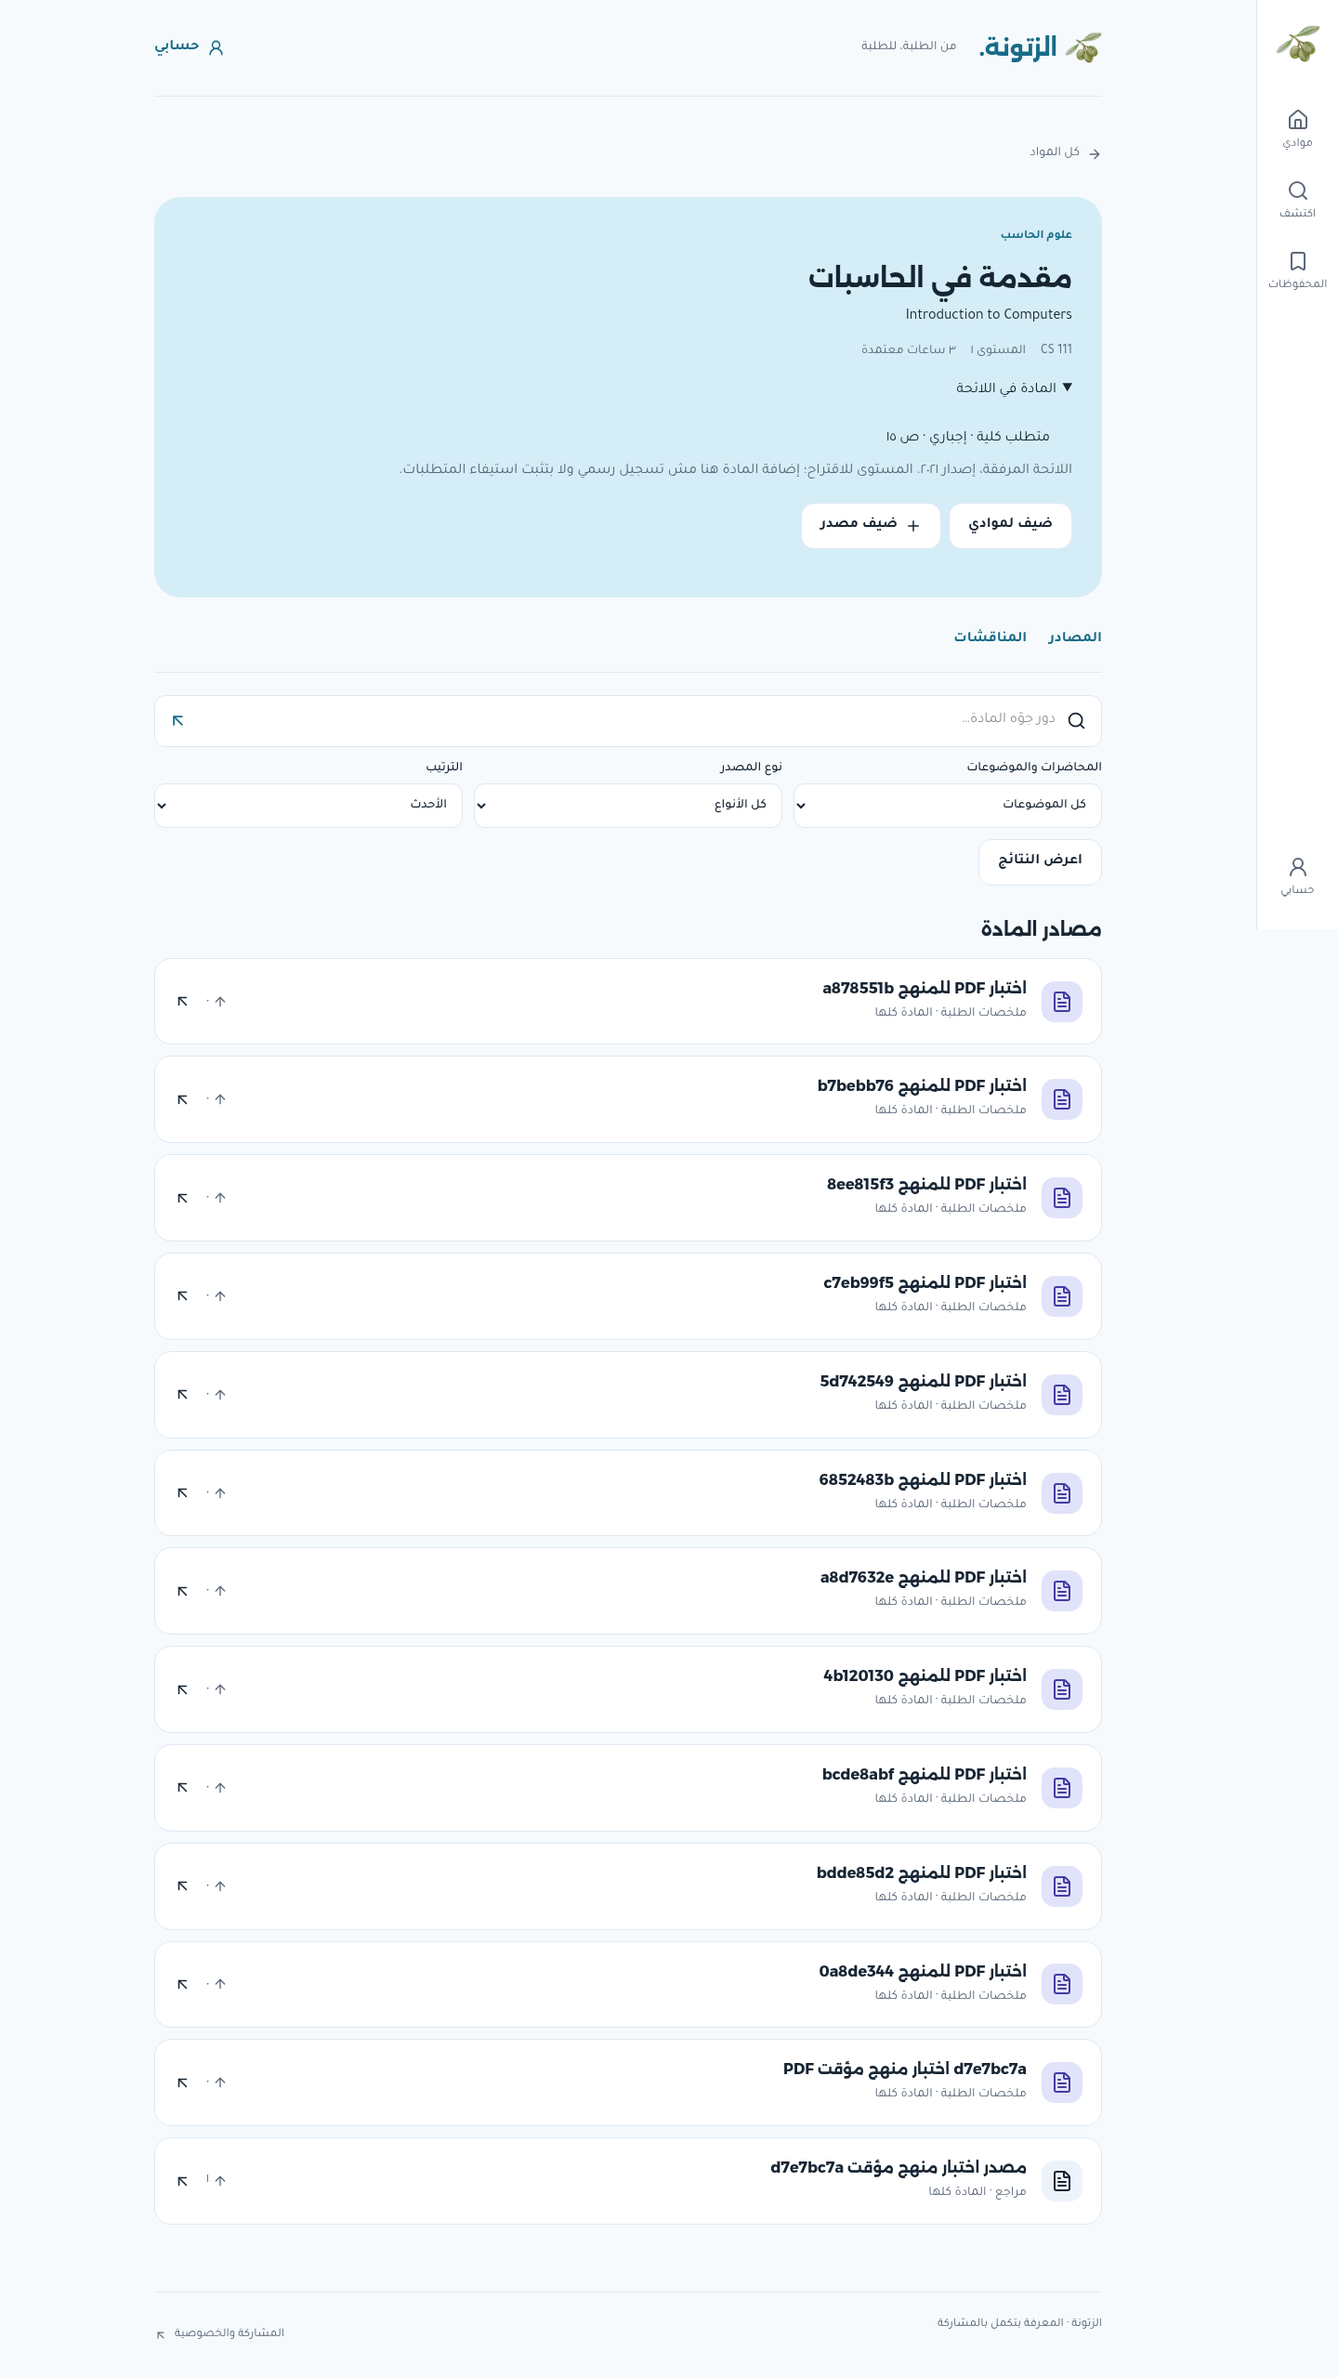
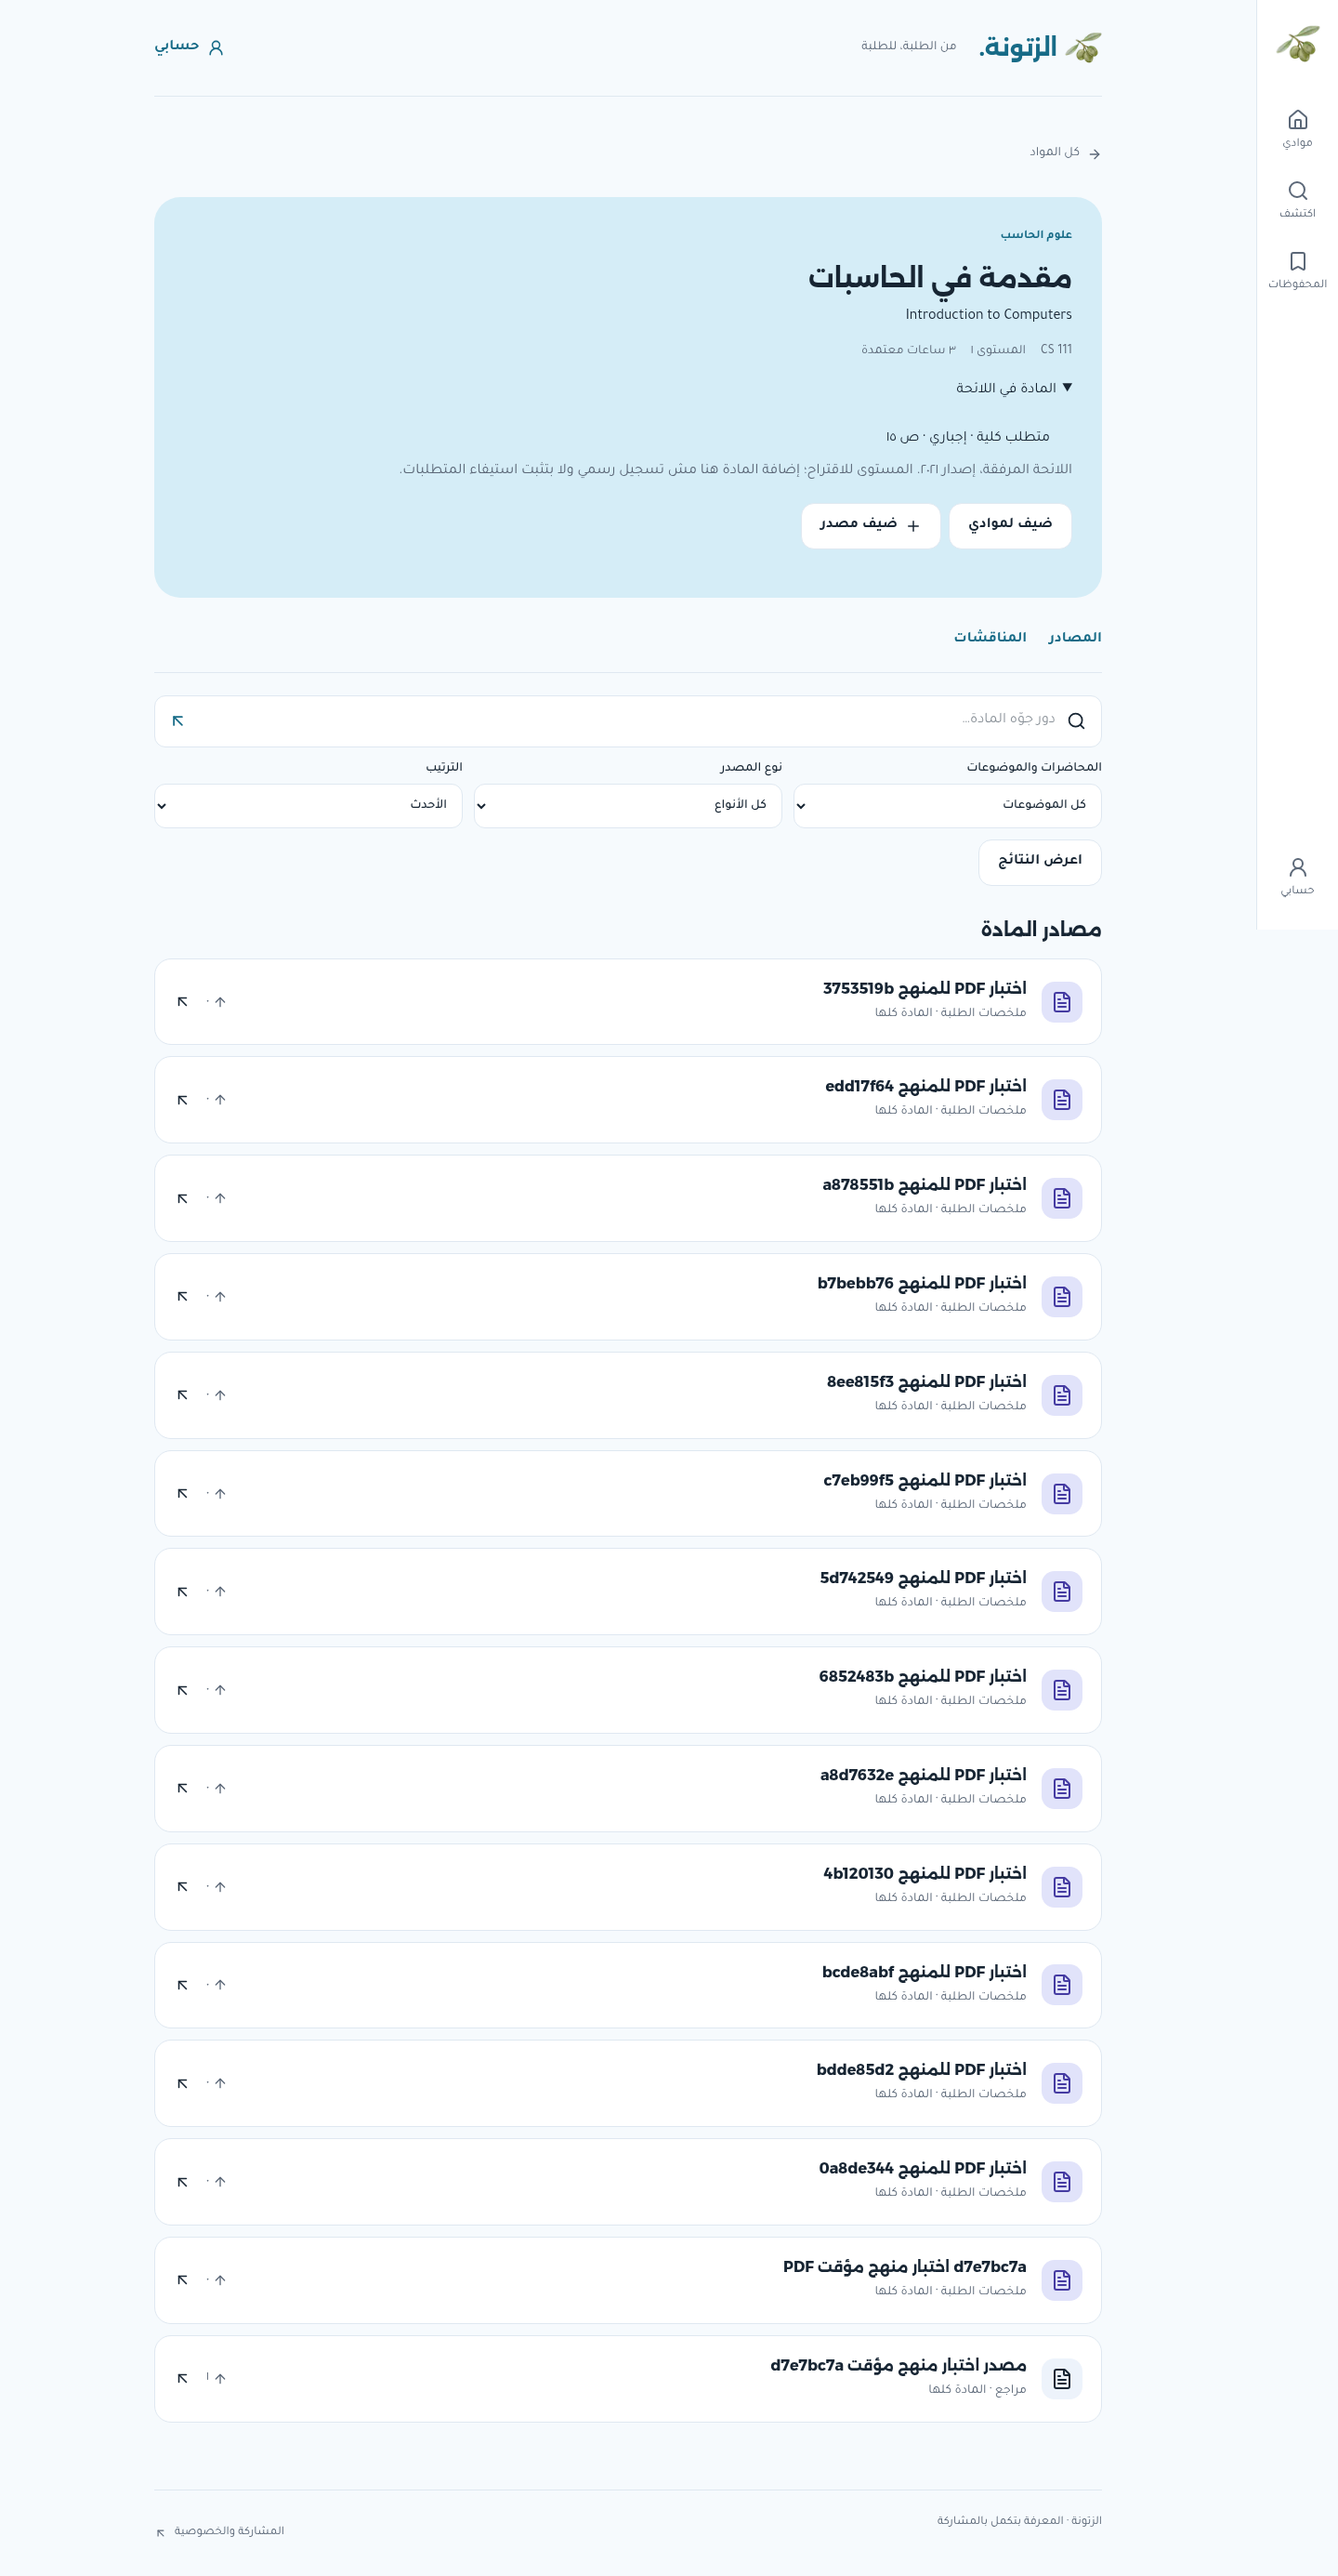
Record live curriculum verification and temporary QA cleanup

diff --git a/docs/IMPLEMENTATION_STATUS.md b/docs/IMPLEMENTATION_STATUS.md
@@ -1,6 +1,6 @@
 # Elzatona implementation status
 
-Updated **23 October 2026**. Current phase: **Capital computing curriculum and course selection verified locally against real Supabase; publication in progress**.
+Updated **23 October 2026**. Current phase: **Capital computing curriculum and course selection deployed and verified at https://elzatona.tech/ against real Supabase**.
 
 Earlier owner instruction to keep Coming Soon at `/` and develop under `/test` is now **superseded**: the owner explicitly requests replacing Coming Soon with the actual platform at `/`. The earlier `/test` URL was public, not access control. Original instructions, design pack, uploaded ZIP and the full new request are retained under `docs/owner-instructions`, `docs/original-design-pack`, `docs/specification` and `docs/original-attachments`.
 
@@ -14,9 +14,10 @@ Owner requests all subjects from the supplied faculty regulations, prioritized s
 - **Applied to real Supabase:** four additive migrations `20261023181713`, `20261023181732`, `20261023182035`, `20261023182301`; no resets, attribution changes to Cairo courses, or changes to real accounts. Curriculum metadata is read-only with explicit grants and RLS. Bulk addition derives its actor from the authenticated session and preserves existing account/onboarding/rate-limit checks.
 - **Tested locally:** 177 automated tests in 10 files passed, including all 12 migrations against fresh embedded PostgreSQL, cross-user permissions, atomic invalid-batch rejection, replay behavior, source counts/credits, Arabic matching, ranking, and context-change preservation. Strict TypeScript and lint pass; full production build passed. Formatting passed. Final local production browser run: **21/21 curriculum journeys passed in 1.9 minutes**, at 390/768/1440px with a 360px/200% text check; actual link/PDF submissions and guest downloads use the hosted backend. Regression suite: **24 passed, 6 intentionally skipped local loading-fixture cases, 1.3 minutes**. Additional targeted responsive/filter checks: **9/9 passed in 41 seconds**. The earlier 5-second PDF assertion timed out although the backend had published successfully; it now allows the actual networked flow up to 20 seconds. Mobile large-text navigation overflow and long-list selection action visibility were corrected. Actual screenshots: `docs/screenshots/curriculum-*` (including viewport captures).
 - **Tested against actual Supabase:** 20 checks passed: entire imported catalog matches reviewed source data, real temporary-account Auth sessions, cross-year bulk additions, denied guest/incomplete/cross-user mutations, source ownership, public publication visibility, questions/replies/votes/saves, real private PDF upload, finalization, and guest signed download. This does not verify Google consent or real-inbox confirmation delivery.
-- **Deployment status:** local production and hosted-backend verification complete; publishing through the connected GitHub/Vercel integration is in progress. Vercel MCP currently returns a team-scope authorization error; public-domain browser verification will establish the served result independently. No deployment success is claimed yet.
+- **Deployed and live-tested:** application commit **`436e8a00ac61cc283cb32e985155d2b184bb8236`** on `DavidGirges1/Elzatona-`. GitHub’s Vercel status reports **success / Deployment has completed**, with [deployment record](https://vercel.com/ai-hackathon6/elzatona/GdHdWTc7AmGraDEzmeKFQVBqEuo6). New course-picker HTML observed at `https://elzatona.tech/courses` on 23 October at **18:47:33 UTC**. Vercel MCP itself returns a team-scope authorization error; no direct MCP build-duration/log claim is made. Actual-domain tests passed **7/7 mobile curriculum journeys (50.6 seconds)**, **8/8 tablet/desktop curriculum checks (34.3 seconds)**, and **33 regression checks (1.1 minutes)** with **6 intentional local loading-fixture skips**: **48 live checks passed overall**. This includes actual group addition/persistence/removal, other-year external/PDF submission, guest visibility/download, RTL/360px large text, search/filter/pagination, root/legacy routing, branding and permission gates. It does not verify Google consent or inbox delivery.
 - **Remaining limits:** 2021 source is not a current semester timetable; department filter is optional and does not persist a specialization. Prerequisites are informational. Initial hubs have no learning materials unless students contribute. IS 450's source Arabic/English title discrepancy needs faculty review. Current-page selections reset on page/filter navigation; already-added courses persist. Existing Supabase password-protection/privileged-function advisory notices remain documented and are not a new launch-readiness claim.
-- **Next:** publish the verified source to GitHub/Vercel, verify the live domain, then remove only temporary QA accounts/content/files. Obtain faculty review of source currency before describing suggestions as current registration advice.
+- **Cleanup verified:** signed out and removed the three exact temporary QA accounts; deleted their 14 PDF objects via the Storage API and their temporary content/follows/interaction records. Post-cleanup queries confirm **0 QA accounts, 0 QA resources and 0 QA Storage objects**, while **122 imported courses, 160 mappings, 3 original Cairo courses, the active/onboarded owner administrator, and 1 non-QA resource with its file remain**. Real students and content were not reset. Anonymous QA page-view metrics may remain in the coarse analytics, which already includes tests/bots.
+- **Next:** obtain faculty review of source currency and the IS 450 title discrepancy before presenting suggestions as current registration advice; collect student feedback on choosing courses. Continue the separately documented Google/inbox verification gate before a broader launch claim.
 
 ## Official root-domain cutover — historical milestone
 

diff --git a/docs/curriculum/README.md b/docs/curriculum/README.md
@@ -54,3 +54,17 @@ Applied additive migrations:
 No project secret key is needed by the website. The add function accepts course IDs only and derives the user from the session. Other students' course lists remain private. Anonymous/incomplete/suspended users cannot add courses.
 
 Hosted tests require operator-provisioned **temporary QA accounts**, explicit `TEST_ALLOW_WRITES=1`, `TEST_AUTH_ACCOUNTS_FILE`, and `TEST_CURRICULUM_STATE_FILE`. Run `tests/curriculum-hosted.mjs`, then `tests/e2e/curriculum.spec.ts` at the configured preview/domain. Never use real students' accounts. Tests intentionally create labeled temporary resources and files; remove only those fixtures after testing. Embedded PostgreSQL checks are separate from actual Supabase Auth/Storage/browser checks.
+
+## Verification and live release — 23 October 2026
+
+Application commit `436e8a00ac61cc283cb32e985155d2b184bb8236` is served at [elzatona.tech/courses](https://elzatona.tech/courses). The connected GitHub/Vercel deployment reports success. Vercel MCP team access is currently unavailable; the release result was verified through GitHub status and actual-domain browser/HTTP checks.
+
+- 177 automated tests / 10 files passed, including a fresh 12-migration database and RLS regressions.
+- Strict TypeScript, lint, formatting, complete production build and original-PDF column audit passed.
+- 20 direct hosted Supabase checks passed, including the full catalog comparison and real Auth/Storage/permission journeys.
+- 21 local production browser checks passed at 390/768/1440px (1.9 minutes), plus 24 regression checks with 6 intentionally skipped loading-fixture checks.
+- Actual domain: 15 curriculum checks and 33 regression checks passed; 6 loading-fixture checks intentionally skipped. The live mobile journey included adding several courses, refresh persistence, removing one, contributing to other years, and opening new links/PDFs as a guest.
+- Three temporary QA accounts and their contributions/interactions were removed after testing; all 14 QA PDF objects were removed through the Storage API. Queries confirm zero remaining objects under their exact user prefixes. Non-QA content, the owner account, the 122 imported courses and original Cairo records remain.
+- No Google consent, real-inbox delivery, current-semester schedule or first-student usability study is claimed by this milestone.
+
+The security advisor still flags intentionally callable guarded RPCs and deny-all internal tables, plus the pre-existing [disabled leaked-password protection](https://supabase.com/docs/guides/auth/password-security#password-strength-and-leaked-password-protection). The new batch function is authenticated-only and passes denied-access tests; the curriculum table has RLS and explicit read-only grants. Guidance for [authenticated SECURITY DEFINER warnings](https://supabase.com/docs/guides/database/database-linter?lint=0029_authenticated_security_definer_function_executable) explains the advisor category; functions remain narrow, validate the active actor, and do not accept an arbitrary student ID.
